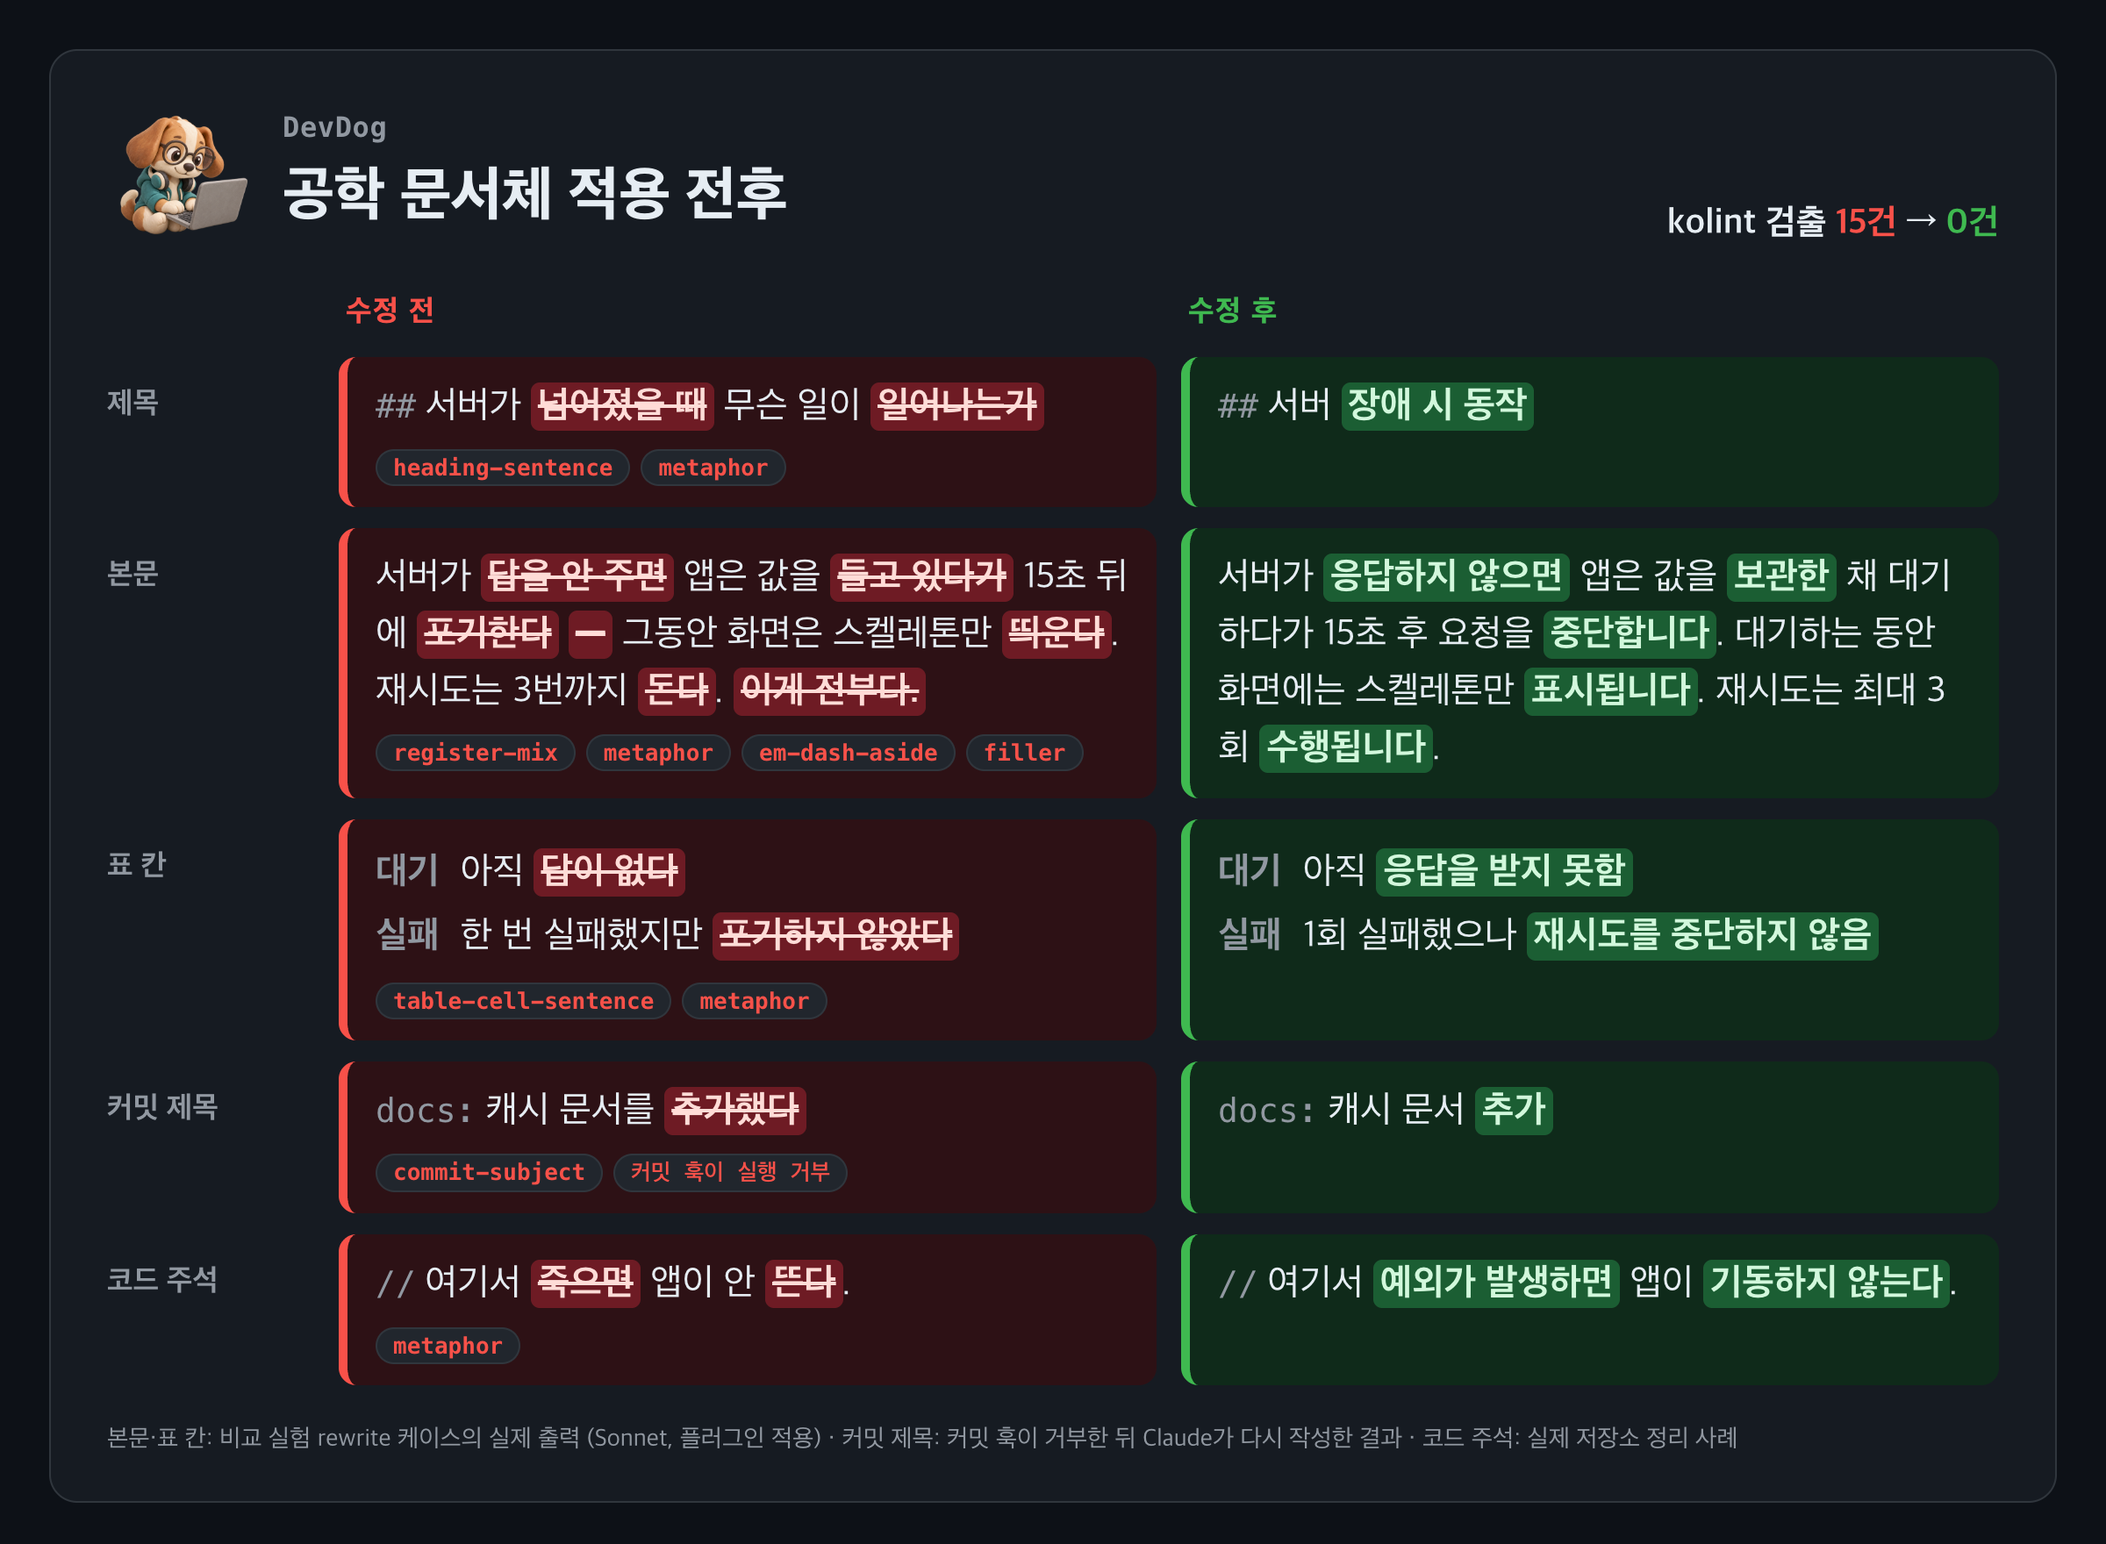
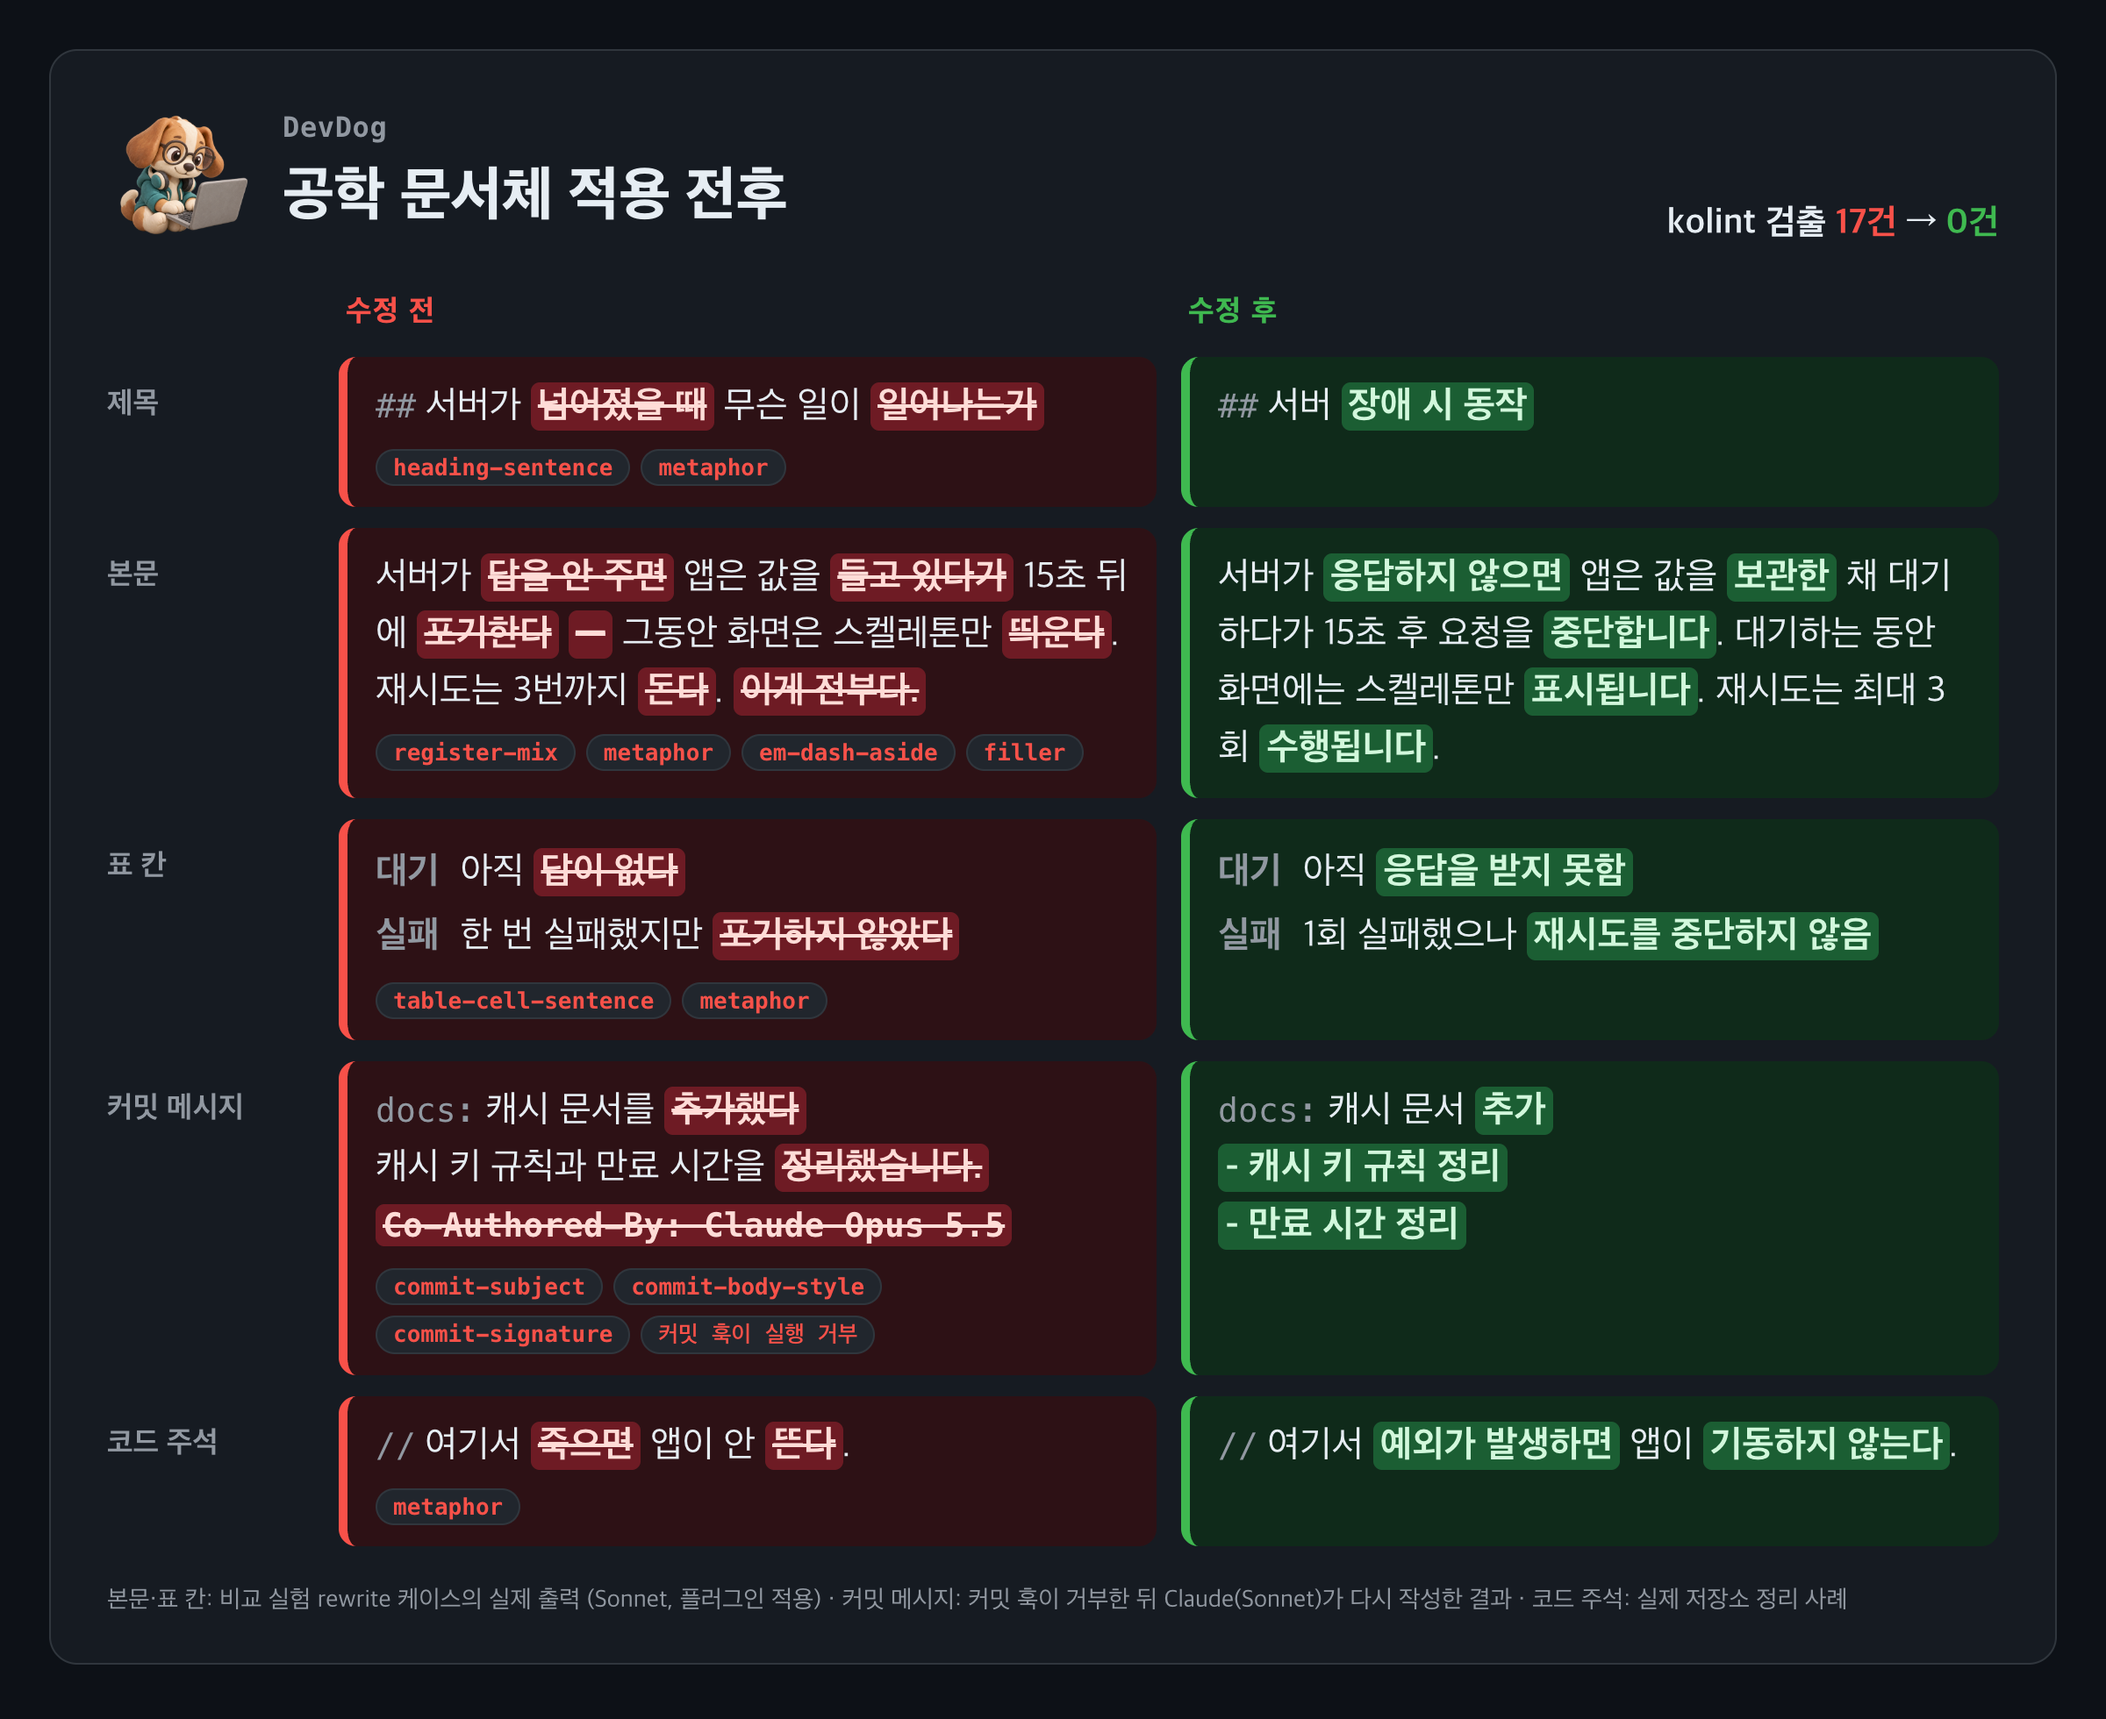
docs(readme): 커밋 메시지 규칙 반영
- 검사 규칙을 문서·주석 표와 커밋 메시지 표로 분리, 표 중간에 끼어 있던 안내 문단 위치 오류 수정
- 비교 이미지·diff 예시를 커밋 제목·본문·AI 서명 위반과 실제 수정 결과로 교체
- 사용 방법에 커밋 훅 동작과 commit-msg 훅 연결 방법 추가
- 문제 정의·차별점·한계에 커밋 본문·서명 관련 근거와 한계 추가
- git commit -v 구분선 아래 디프 검사 제외

diff --git a/docs/assets/before-after.html b/docs/assets/before-after.html
@@ -3,7 +3,7 @@
 README 상단 대비 이미지의 원본. 수정 후 다음 명령으로 PNG를 다시 생성한다.
   CHROME="/Applications/Google Chrome.app/Contents/MacOS/Google Chrome"
   for t in light dark; do "$CHROME" --headless=new --hide-scrollbars --force-device-scale-factor=2 \
-    --window-size=1200,880 --screenshot=docs/assets/before-after-$t.png \
+    --window-size=1200,980 --screenshot=docs/assets/before-after-$t.png \
     "file://$PWD/docs/assets/before-after.html?theme=$t"; done
 -->
 <html lang="ko">
@@ -69,7 +69,7 @@ README 상단 대비 이미지의 원본. 수정 후 다음 명령으로 PNG를 
         <h1>공학 문서체 적용 전후</h1>
       </div>
     </div>
-    <div class="score">kolint 검출 <span class="bad">15건</span> → <span class="good">0건</span></div>
+    <div class="score">kolint 검출 <span class="bad">17건</span> → <span class="good">0건</span></div>
   </header>
 
   <div class="grid">
@@ -94,10 +94,14 @@ README 상단 대비 이미지의 원본. 수정 후 다음 명령으로 PNG를 
       <tr><td>대기</td><td>아직 <mark>응답을 받지 못함</mark></td></tr>
       <tr><td>실패</td><td>1회 실패했으나 <mark>재시도를 중단하지 않음</mark></td></tr></table></div>
 
-    <div class="label">커밋 제목</div>
-    <div class="cell bad"><span class="mono">docs:</span> 캐시 문서를 <mark>추가했다</mark>
-      <div class="tags"><span class="tag">commit-subject</span><span class="tag">커밋 훅이 실행 거부</span></div></div>
-    <div class="cell good"><span class="mono">docs:</span> 캐시 문서 <mark>추가</mark></div>
+    <div class="label">커밋 메시지</div>
+    <div class="cell bad"><span class="mono">docs:</span> 캐시 문서를 <mark>추가했다</mark><br>
+      캐시 키 규칙과 만료 시간을 <mark>정리했습니다.</mark><br>
+      <span class="mono"><mark>Co-Authored-By: Claude Opus 5.5</mark></span>
+      <div class="tags"><span class="tag">commit-subject</span><span class="tag">commit-body-style</span><span class="tag">commit-signature</span><span class="tag">커밋 훅이 실행 거부</span></div></div>
+    <div class="cell good"><span class="mono">docs:</span> 캐시 문서 <mark>추가</mark><br>
+      <mark>- 캐시 키 규칙 정리</mark><br>
+      <mark>- 만료 시간 정리</mark></div>
 
     <div class="label">코드 주석</div>
     <div class="cell bad"><span class="mono">//</span> 여기서 <mark>죽으면</mark> 앱이 안 <mark>뜬다</mark>.
@@ -106,7 +110,7 @@ README 상단 대비 이미지의 원본. 수정 후 다음 명령으로 PNG를 
   </div>
 
   <footer>
-    본문·표 칸: 비교 실험 rewrite 케이스의 실제 출력 (Sonnet, 플러그인 적용) · 커밋 제목: 커밋 훅이 거부한 뒤 Claude가 다시 작성한 결과 · 코드 주석: 실제 저장소 정리 사례
+    본문·표 칸: 비교 실험 rewrite 케이스의 실제 출력 (Sonnet, 플러그인 적용) · 커밋 메시지: 커밋 훅이 거부한 뒤 Claude(Sonnet)가 다시 작성한 결과 · 코드 주석: 실제 저장소 정리 사례
   </footer>
 </div>
 </body>

diff --git a/tests/test_kolint.py b/tests/test_kolint.py
@@ -149,6 +149,11 @@ class Commit(unittest.TestCase):
         self.assertEqual(self.lint('ci: 빌더 상태 유지\n\n- 캐시 업로드 325초 소요\n- 앱 재빌드 필요'), [])
         self.assertIn('commit-body-style', self.lint('fix: 오류 수정\n\n- 재시작하면 돼요'))
 
+    def test_scissors(self):
+        msg = ('fix: 오류 수정\n\n- 원인 제거\n# ------------------------ >8 ------------------------\n'
+               'diff --git a/x b/x\n+서버가 죽으면 재시작한다.\n')
+        self.assertEqual(self.lint(msg), [])
+
     def test_file_list(self):
         self.assertIn('commit-file-list', self.lint('fix: RecruitmentServiceImpl.java 수정'))
         self.assertIn('commit-file-list', self.lint('refactor: fetchMe() 분리'))

diff --git a/scripts/kolint.py b/scripts/kolint.py
@@ -437,6 +437,8 @@ EMOJI = re.compile('[\U0001F000-\U0001FAFF\u2600-\u27BF\u2B50\u2B55\uFE0F]')
 
 def lint_commit(msg, cfg, path='COMMIT_EDITMSG'):
     out = []
+    # git commit -v가 붙이는 구분선 아래 디프는 메시지가 아니다
+    msg = re.split(r'^# -+ >8 -+$', msg, maxsplit=1, flags=re.M)[0]
     lines = [l for l in msg.split('\n') if not l.startswith('#')]
     while lines and not lines[0].strip():
         lines.pop(0)

diff --git a/CHANGELOG.md b/CHANGELOG.md
@@ -7,6 +7,8 @@
 - 설정 키 `commitBody` 추가 (`bullet` 기본값, `any`)
 - 해요체 판정 수정: "필요", "소요"처럼 "요"로 끝나는 명사는 문장형으로 판정하지 않음
 - 작성 스킬 규칙 문서의 커밋 메시지 절을 제목·본문·금지 항목으로 재작성
+- `git commit -v` 구분선 아래 디프를 커밋 메시지 검사에서 제외
+- README 검사 규칙을 문서·주석 표와 커밋 메시지 표로 분리, 비교 이미지에 커밋 본문·서명 예시 추가
 
 ## 0.2.0 (2026-09-24)
 
